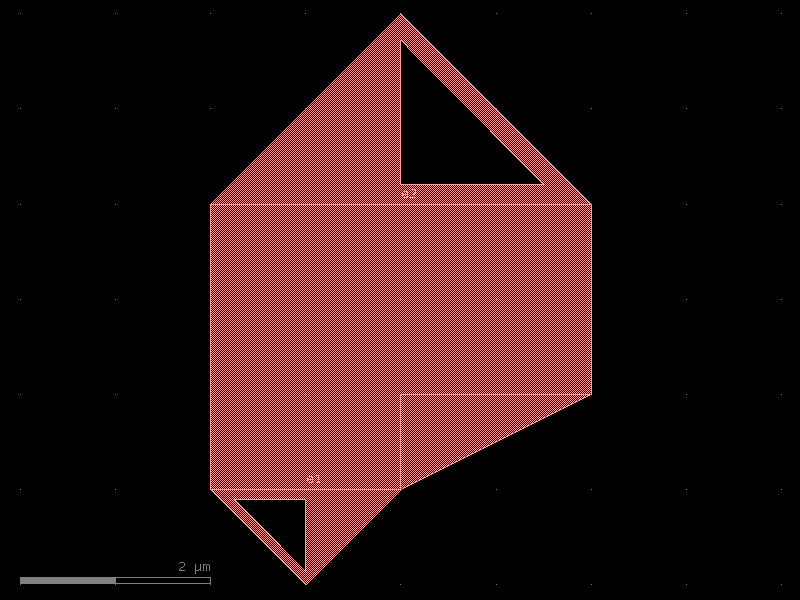
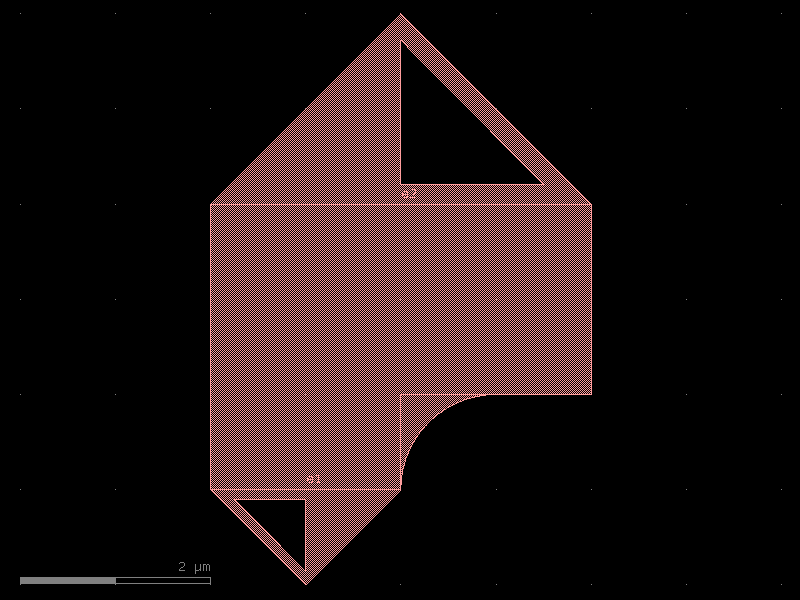
cleaned up some defaults to make devices prettier

Changed region(s): [[0.5, 0.66, 0.7188, 0.81]]

diff --git a/src/qnngds/geometries.py b/src/qnngds/geometries.py
@@ -250,7 +250,7 @@ def flagpole(
     size: tuple[float, float] = (4, 2),
     stub_size: tuple[float, float] = (2, 1),
     shape: str = "p",
-    taper_type: str | None = "straight",
+    taper_type: str | None = "fillet",
     layer: LayerSpec = (1, 0),
     port_type: str = "electrical",
 ) -> gf.Component:

diff --git a/src/qnngds/devices/ntron.py b/src/qnngds/devices/ntron.py
@@ -82,7 +82,7 @@ def sharp(
     channel_w: float = 0.1,
     source_w: float = 0.3,
     drain_w: float = 0.3,
-    gate_sq: float = 10,
+    gate_sq: float = 2,
     channel_sq: float = 1,
     source_sq: float = 5,
     drain_sq: float = 5,
